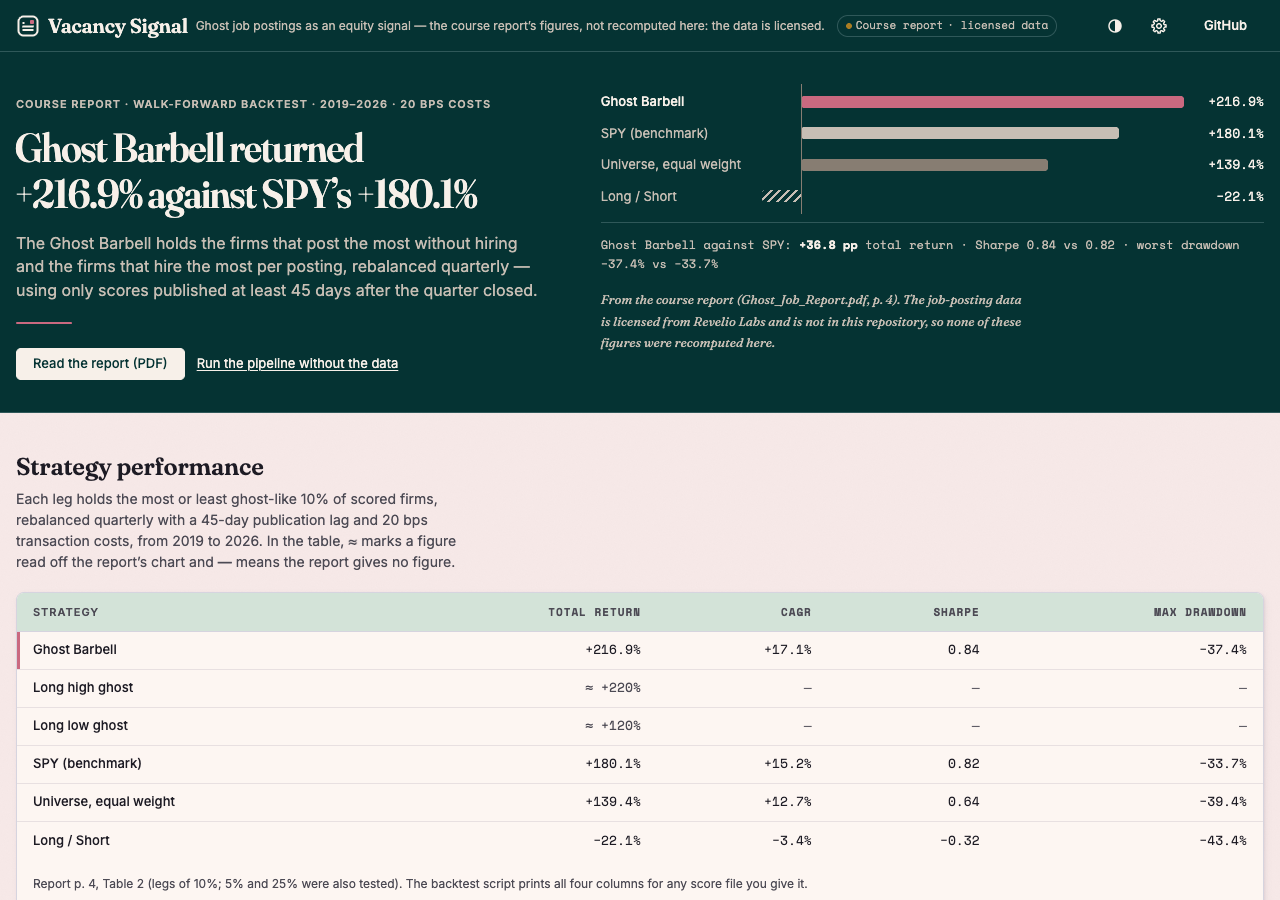
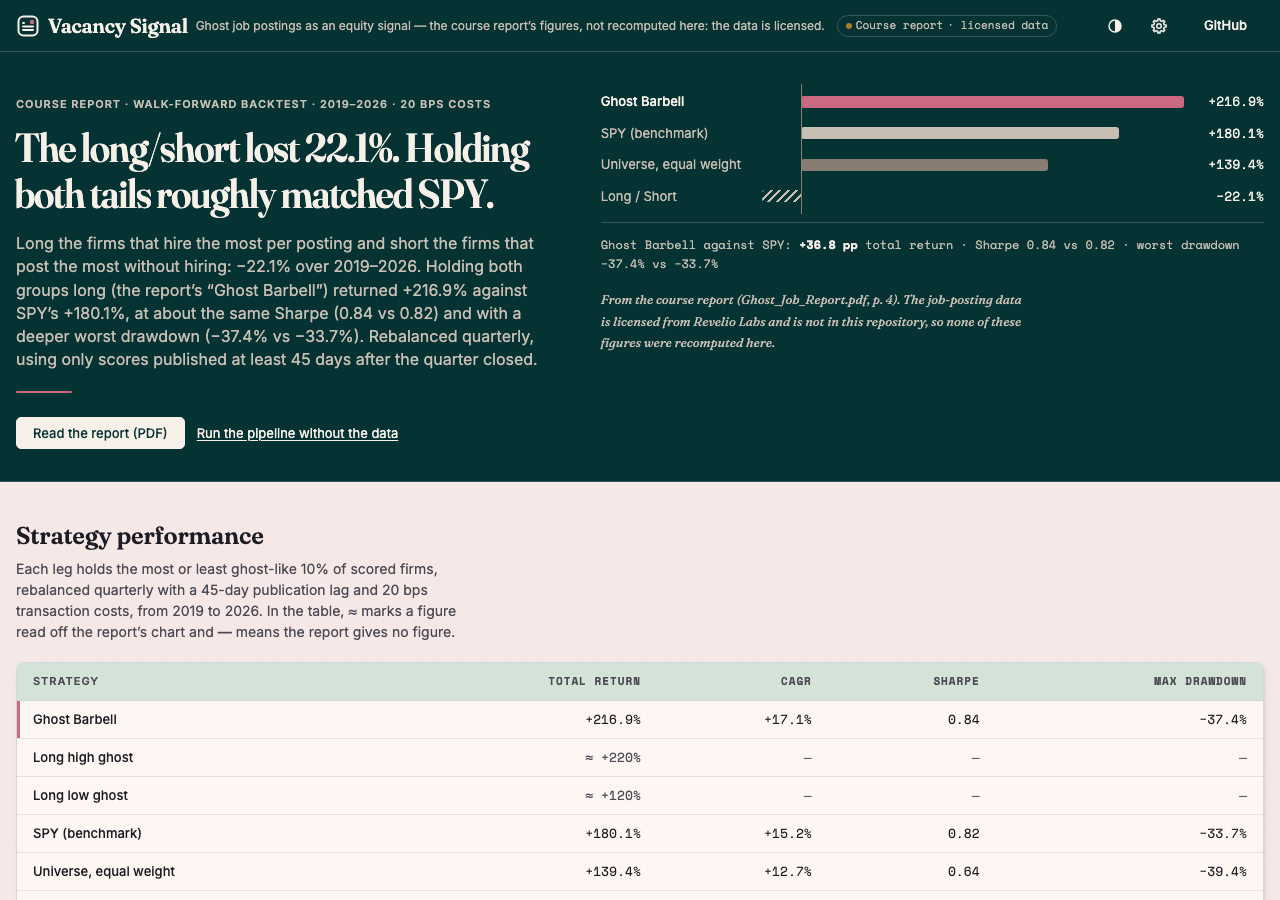
Lead with what the table says: the long/short lost 22.1%
The hero on the results page and in the README read "Ghost Barbell
returned +216.9% against SPY's +180.1%". The same table (report p. 4,
Table 2) shows the long/short at -22.1% (Sharpe -0.32), Sharpe 0.84 vs
0.82 and a deeper worst drawdown (-37.4% vs -33.7%).

- Results page: new headline and lede; figures unchanged.
- README: the finding in one sentence at the top, a "Try it" line, the
  page screenshot as the first image (banner below it), the long/short
  row first and no bold row in the table, a plain reading under it.
- Overview: "predicts meaningful return dispersion" is replaced by what
  the backtest shows, plus one sentence on firm size (headcount is the
  top SHAP feature; no factor-neutral test was run).
- docs/screenshot-results.png re-taken from the new page.

Every number was checked against Ghost_Job_Report.pdf. Authors' names,
the report and the slides are untouched.

diff --git a/docs/index.html b/docs/index.html
@@ -34,8 +34,8 @@
   <div class="plate-in">
     <div>
       <span class="eyebrow"><span class="long">Course report · </span>Walk-forward backtest · 2019–2026<span class="long"> · 20 bps costs</span></span>
-      <h1 id="result-h" class="display">Ghost Barbell returned +216.9% against SPY’s +180.1%</h1>
-      <p class="lede">The Ghost Barbell holds the firms that post the most without hiring and the firms that hire the most per posting, rebalanced quarterly — using only scores published at least 45 days after the quarter closed.</p>
+      <h1 id="result-h" class="display">The long/short lost 22.1%. Holding both tails roughly matched SPY.</h1>
+      <p class="lede">Long the firms that hire the most per posting and short the firms that post the most without hiring: −22.1% over 2019–2026. Holding both groups long (the report’s “Ghost Barbell”) returned +216.9% against SPY’s +180.1%, at about the same Sharpe (0.84 vs 0.82) and with a deeper worst drawdown (−37.4% vs −33.7%). Rebalanced quarterly, using only scores published at least 45 days after the quarter closed.</p>
       <div class="rule" aria-hidden="true"></div>
       <div class="actions">
         <a class="btn btn-primary" href="https://github.com/NickkkLian/Ghost-Job-Detection-And-Trading-Signal/blob/main/Ghost_Job_Report.pdf" rel="noopener">Read the report (PDF)</a>

diff --git a/README.md b/README.md
@@ -1,16 +1,20 @@
 # Vacancy Signal
 
-![Vacancy Signal](.github/header.png)
-
 **Ghost job postings as an equity signal — the course report's figures, not recomputed here: the data is licensed.**
+
+**What the report's backtest found (2019–2026):** a long/short on the ghost score lost 22.1%. Holding both tails long returned +216.9% against SPY's +180.1%, at about the same Sharpe (0.84 vs 0.82) and with a deeper worst drawdown (−37.4% vs −33.7%).
+
+**Try it:** [open the results page](https://nickkklian.github.io/Ghost-Job-Detection-And-Trading-Signal/), or run the pipeline on synthetic data with the four commands under [Run it in 60 seconds](#run-it-in-60-seconds-synthetic-data-no-licence-no-network).
+
+[![Vacancy Signal results page: the long/short and both-tails results from the report, the return bars and the strategy table](docs/screenshot-results.png)](https://nickkklian.github.io/Ghost-Job-Detection-And-Trading-Signal/)
+
+![Vacancy Signal](.github/header.png)
 
 *Ghost Job Detection: A Labor Market Mispricing Signal* — course research by
 
 **Nilabh Agrawal, Carter Jaquette, and Nick Lian**  
 Sauder School of Business, University of British Columbia  
 COMM 486I — Applied AI in Finance
-
-[![Vacancy Signal results page: the Ghost Barbell and SPY returns from the report, and the strategy table](docs/screenshot-results.png)](https://nickkklian.github.io/Ghost-Job-Detection-And-Trading-Signal/)
 
 **[Open the results page →](https://nickkklian.github.io/Ghost-Job-Detection-And-Trading-Signal/)** · [Report (PDF)](Ghost_Job_Report.pdf) · [Slides (PPTX)](Ghost_Job_Final_Presentation.pptx) · [Notebook](notebooks/Ghost_Job_Pipeline_v2.ipynb)
 
@@ -64,8 +68,13 @@ python scripts/check.py
 Ghost job postings — listings kept active by firms with no genuine intent to hire — are
 a measurable but under-exploited signal in public equity markets. We construct a
 **Ghost Job Intensity Score** from 310,821 Revelio Labs job postings spanning 2,919 US
-public firms over 2009–2024 and show that cross-sectional variation in ghosting behaviour
-predicts meaningful return dispersion.
+public firms over 2009–2024 and backtest whether cross-sectional variation in ghosting
+behaviour shows up in returns. In the report's backtest it does not make a tradeable
+long/short: long low-ghost, short high-ghost lost 22.1% over 2019–2026, while holding both
+tails long roughly matched SPY on risk-adjusted return (see [Key Results](#key-results)).
+The model's two strongest features are `headcount` and `log_headcount`, so part of what
+the score ranks may be firm size; the report ranks firms within each quarter to absorb
+size, and names a factor-neutral construction as a next step, not something it ran.
 
 **Pipeline summary:**
 
@@ -90,12 +99,18 @@ predicts meaningful return dispersion.
 
 | Strategy | Total Return | CAGR | Sharpe | Max Drawdown |
 |---|---|---|---|---|
-| **Ghost Barbell** | **+216.9%** | **+17.1%** | **0.84** | **−37.4%** |
+| Long / Short | −22.1% | −3.4% | −0.32 | −43.4% |
+| Ghost Barbell (both tails long) | +216.9% | +17.1% | 0.84 | −37.4% |
 | Long High Ghost | ~220% | — | — | — |
 | Long Low Ghost | ~120% | — | — | — |
 | SPY (benchmark) | +180.1% | +15.2% | 0.82 | −33.7% |
 | Universe EW | +139.4% | +12.7% | 0.64 | −39.4% |
-| Long / Short | −22.1% | −3.4% | −0.32 | −43.4% |
+
+How to read it: the long/short (long low-ghost, short high-ghost) lost money. The Ghost
+Barbell's extra 36.8 points of total return over SPY came with nearly the same Sharpe
+(0.84 vs 0.82) and a deeper worst drawdown (−37.4% vs −33.7%), so on risk it roughly
+matched the index. The high-ghost long (~220%) beat the low-ghost long (~120%), which is
+why shorting high-ghost firms lost. All figures are the report's (p. 4, Table 2).
 
 ### Model Performance
 
